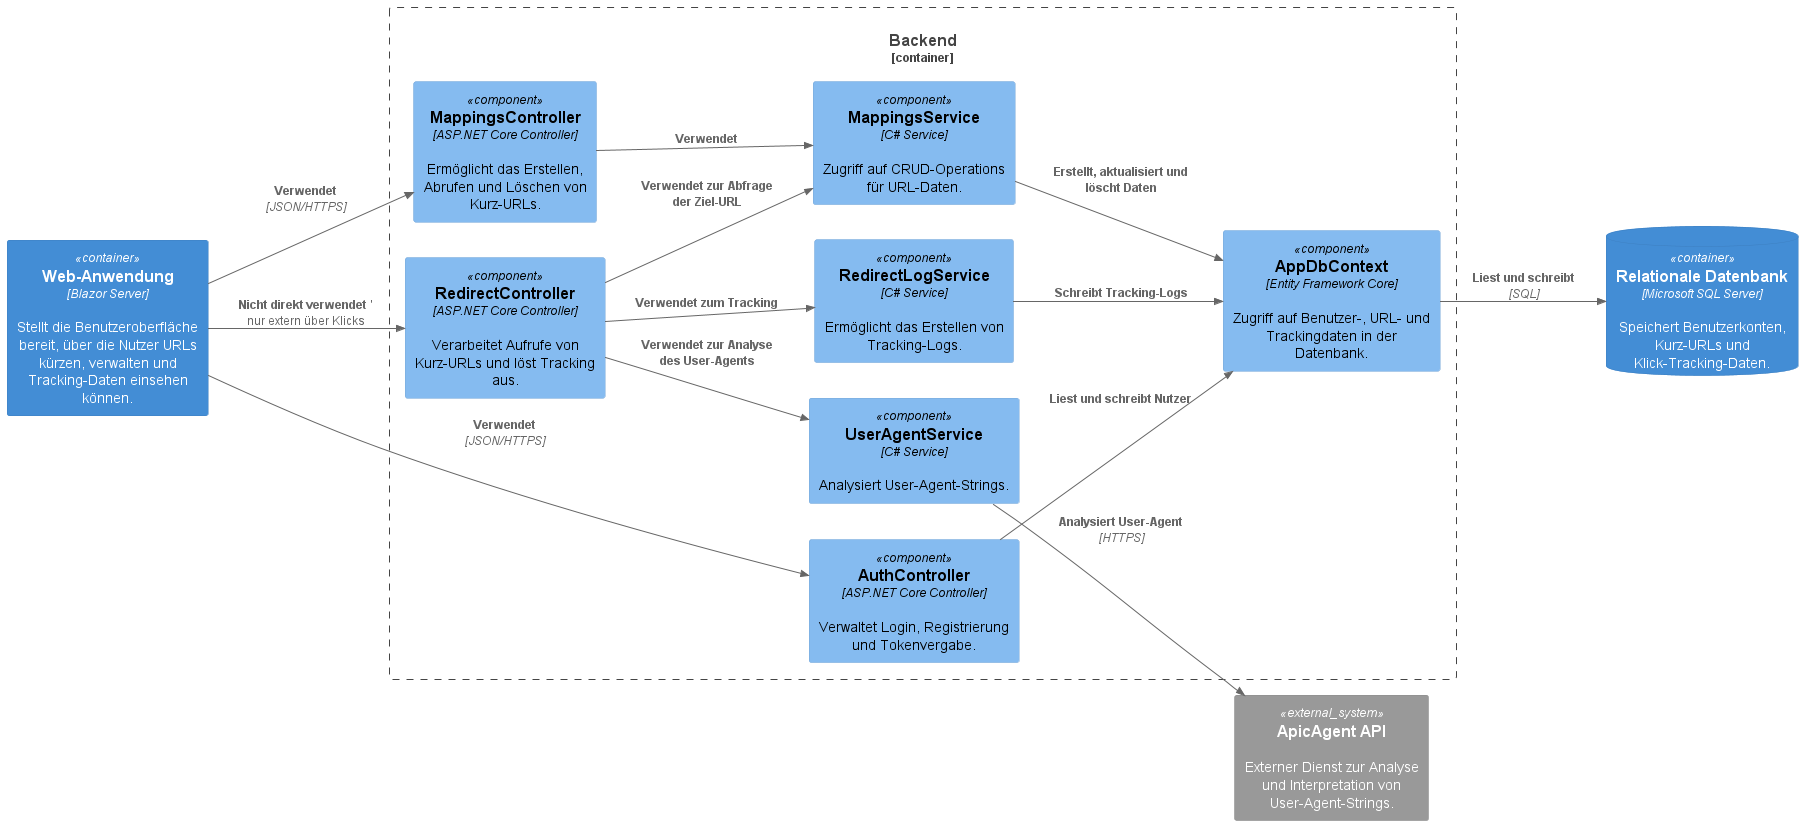
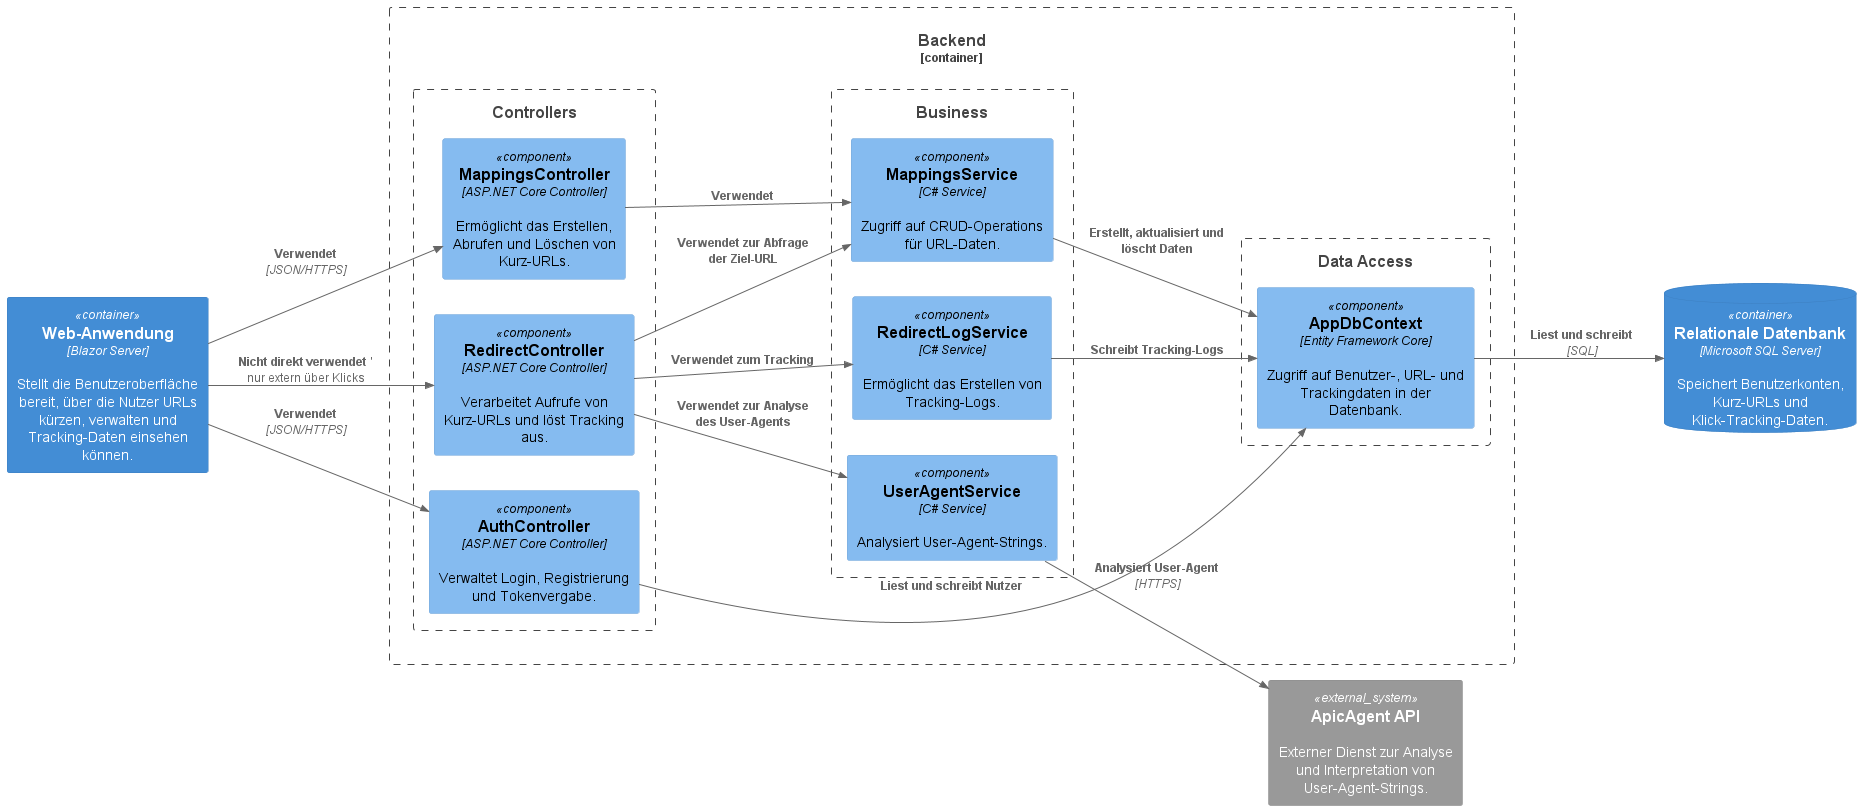
update arc42 doc, add sequence diagrams

Changed region(s): [[0.0, 0.0309, 1.0, 0.8333], [0.6483, 0.8025, 0.8026, 1.0]]

diff --git a/docs/docs.md b/docs/docs.md
@@ -4,7 +4,7 @@ Dokumentation zur Projektarbeit im Fach "Software-Qualitätssicherung" an der TH
 
 Der Aufbau dieser Dokumentation orientiert sich am offiziellen [Arc42-Template](https://docs.arc42.org/home/)
 
-## 1. Einleitung
+## 1. Einführung und Ziele
 ### Fachliche Anforderungen
 
 Bei der Anwendung handelt es sich um einen URL-Shortener mit Benutzerkonten. Nutzer:innen können sich mit E-Mail-Adresse und Passwort registrieren und anschließend über ein persönliches Dashboard kurze URLs erstellen. Die erstellten Kurz-URLs werden dem jeweiligen Nutzerkonto zugeordnet und können jederzeit wieder gelöscht werden.
@@ -25,7 +25,7 @@ Die wesentlichen Stakeholder dieses Projekts sind:
 - Studierende des Moduls Software-Qualitätssicherung an der TH Rosenheim.
 - Lehrende/Dozenten, die das Projekt im Kontext der Lehrveranstaltung begleiten und bewerten.
 
-## 2. Beschränkungen
+## 2. Randbedingungen
 Im Rahmen des Projekts galten folgende Einschränkungen und Rahmenbedingungen:
 
 - **Architekturvorgabe**: Die Anwendung musste als verteiltes System umgesetzt werden, bestehend aus einem Frontend, einem Backend sowie einer persistenten Datenhaltung (Datenbank).
@@ -42,49 +42,16 @@ Im Rahmen des Projekts galten folgende Einschränkungen und Rahmenbedingungen:
 
 - **Quellcodeverwaltung**: Als zentrales Repository für die Versionsverwaltung muss GitHub verwendet werden.
 
-## 3. Kontext und Umfang
+## 3. Kontextabgrenzung
 
-### Kontextdiagramm (Level 1)
 Das System ist ein Webservice mit direkter Interaktion durch Benutzer über den Browser. Die einzige externe Schnittstelle ist eine Third-Party-API zur Analyse von User-Agent-Strings.
 
 **Externe Beteiligte**:         
 
-- **Endnutzer:innen**: Interagieren über das Web-Frontend mit der Anwendung, z. B. zum Erstellen und Verwalten von Kurz-URLs.
+- **Endnutzer:innen**: Interagieren über das Web-Frontend mit der Anwendung, z. B. zum Erstellen und Verwalten von Kurz-URLs. Oder klicken auf eine generierte URL, um weitergeleitet zu werden.
 - **Externer Dienst – ApicAgent**: Wird vom Backend genutzt, um die im User-Agent enthaltenen Informationen (z. B. Betriebssystem, Gerät, Browser) strukturiert zu analysieren und zu speichern.
 
 ![Kontextdiagramm](images/Kontextdiagramm.png)
-
-### Containerdiagramm (Level 2)
-Das System besteht aus drei Haupt-Containern:
-
-**1. Web-Frontend (Blazor Server)**       
-
-- Stellt die Benutzeroberfläche bereit.
-- Verantwortlich für Benutzerinteraktion, URL-Verwaltung und Anzeige der Tracking-Daten.
-- Kommuniziert per HTTP-REST mit dem Backend.
-
-**2. Backend (ASP.NET Core Web API)**           
-
-- Beinhaltet die gesamte Geschäftslogik und Datenverarbeitung.
-- Bietet REST-Endpunkte zur Nutzerregistrierung, URL-Verwaltung, Weiterleitung und Tracking.
-- Ruft REST-API von [ApicAgent](https://www.apicagent.com/) auf zur Analyse des UserAgents des Nutzers.
-
-**Datenbank (MS SQL Server)**      
-
-- Persistiert Benutzerkonten, Kurz-URLs und Tracking-Informationen.
-- Wird ausschließlich vom Backend angesprochen.
-
-![Containerdiagramm](images/Containerdiagramm.png)
-
-### Komponentendiagramm (Level 3)
-
-**Backend-Komponenten:**
-
-![Komponentendiagramm Backend](images/Komponentendiagramm_Backend.png)
-
-**Frontend-Komponenten (Blazor Pages):**
-
-![Komponentendiagramm Frontend](images/Komponentendiagramm_Frontend.png)
 
 ## 4. Lösungsstrategie
 
@@ -110,9 +77,13 @@ Das Backend besteht aus dem Projekt ``UrlShortener.App.Backend`` und ist in mehr
 
 - **Controllers:** Enthält die REST-Endpunkte für Authentifizierung (AuthController), Systemstatus (HealthCheckController), URL-Verwaltung (MappingsController) und Weiterleitung (RedirectController).
 - **Business**: Implementiert die Geschäftslogik für Authentifizierung, Erstellung und Löschung von URLs, sowie das Tracking von Klicks inkl. API-Kommunikation mit ApicAgent.
+- **Data Access**: Implementiert den Zugriff auf die Datenbank
 - **Models**: Enthält die Models, die von der ApicAgent REST-API per HTTP-Request zur Verfügung gestellt werden.
 - **Extensions**: Sammlung von statischen Hilfsklassen.
 - **Middleware**: Implementierung eigener Middleware, um das Verhalten der Anwendung zentral zu steuern (Zum Beispiel, um ein Delay auf eingehende Requests anzuwenden, um Brute-Force Angriffe auf den Login ineffizient zu machen).
+
+Zentrale Komponenten (Controller, Business Logic, Data Access) werden hier genauer erklärt:
+![Komponentendiagramm Backend](images/Komponentendiagramm_Backend.png)
 
 ### Frontend-Bausteine
 
@@ -124,8 +95,11 @@ Das Frontend besteht aus zwei Projekten:
 
     - **API**: Wrapper für die Kommunikation mit dem Backend via HTTP.
     - **Business**: Client-seitige Geschäftslogik zur Verwaltung von URLs und Anzeige der Tracking-Daten.
-    - **Components**: Wiederverwendbare UI-Komponenten wie Formulare, Tabellen oder Dialoge.
+    - **Components**: UI-Komponenten wie Formulare, Tabellen oder Dialoge.
     - **Extensions**: Erweiterungsmethoden und Hilfsfunktionen für die UI oder Datenverarbeitung.
+
+Zentrale Komponenten (Components/UI, Business Logic, Data Access) werden hier genauer erklärt:
+![Komponentendiagramm Frontend](images/Komponentendiagramm_Frontend.png)
 
 ## 6. Runtime-Sicht
 Die Runtime-Sicht beschreibt typische Abläufe innerhalb des Systems zur Laufzeit. Dabei werden die Interaktionen zwischen Nutzer, Frontend, Backend, Datenbank und externen APIs dargestellt. Im Folgenden werden zwei zentrale Szenarien der Anwendung beispielhaft beschrieben.
@@ -136,7 +110,9 @@ Die Runtime-Sicht beschreibt typische Abläufe innerhalb des Systems zur Laufzei
 3. Das Frontend ruft den REST-Endpunkt /api/mappings/create im MappingsController des Backends per POST-Request mit den eingegeben Daten auf.
 4. Das Backend validiert die Eingabe und generiert eine eindeutige Kurz-URL.
 4. Die Lange URL, die generierte Kurz-URL, der Timestamp, der Titel und die Benutzer-ID werden in der Datenbank gespeichert.
-5. Die neue URL wird dem Benutzer im Frontend angezeigt und zur Übersichtsliste hinzugefügt.
+5. Die neue URL wird dem Benutzer im Frontend angezeigt und zur Übersichtsliste hinzugefügt. Außerdem werden Statistiken angezeigt.
+
+![Sequenzdiagramm 1](images/sc1.png)
 
 ### Szenario 2: Ein Dritter klickt auf eine Kurz-URL
 1. Eine Person ruft eine zuvor generierte Kurz-URL im Browser auf.
@@ -148,23 +124,28 @@ Die Runtime-Sicht beschreibt typische Abläufe innerhalb des Systems zur Laufzei
     - Der Client wird mit einem HTTP-Redirect (Status 302) zur Lang-URL weitergeleitet.
 8. Falls kein Mapping existiert, wird eine 404-Fehlermeldung zurückgegeben.
 
-Beide Szenarien zeigen, wie die verschiedenen Systemkomponenten zusammenarbeiten, um Kernfunktionalitäten wie URL-Erstellung und Tracking performant und sicher umzusetzen.
+![Sequenzdiagramm 2](images/sc2.png)
 
-## 7. Deployment-Sicht
-Die Anwendung wird containerisiert ausgeliefert und über eine zentrale docker-compose-Konfiguration gestartet. Sie besteht aus zwei Hauptdiensten – Backend und Frontend – die jeweils in einem eigenen Docker-Container laufen. Beide Images werden automatisch via GitHub Actions gebaut und mit der jeweils aktuellen Version veröffentlicht.
+Beide Szenarien zeigen, wie die verschiedenen Systemkomponenten zusammenarbeiten, um Kernfunktionalitäten wie URL-Erstellung und umzusetzen.
 
-### Containerisierung
+## 7. Verteilungssicht
+Die Anwendung wird containerisiert ausgeliefert und über eine zentrale docker-compose-Konfiguration gestartet. Sie besteht aus drei Hauptdiensten – Backend, Frontend und Datenbank – die jeweils in einem eigenen Docker-Container laufen. Images von Frontend und Backend werden automatisch via GitHub Actions gebaut und mit der jeweils aktuellen Version veröffentlicht.
+
+![Containerdiagramm](images/Containerdiagramm.png)
 
 - **Backend-Container**:
-    - Basierend auf dem offiziellen .NET 9.0 ASP.NET-Image.
-    - Enthält die REST-API sowie die Geschäftslogik.
-    - Wird über Port 6060 bereitgestellt.
-    - Nutzt eine mehrstufige Build-Pipeline (Restore, Build, Publish), um ein Image zu erzeugen.
+    - Beinhaltet die gesamte Geschäftslogik und Datenverarbeitung.
+    - Bietet REST-Endpunkte zur Nutzerregistrierung, URL-Verwaltung, Weiterleitung und Tracking.
+    - Ruft REST-API von [ApicAgent](https://www.apicagent.com/) auf zur Analyse des UserAgents des Nutzers.
 
 - **Frontend-Container**:
-    - Ebenfalls basierend auf dem .NET 9.0 ASP.NET-Image.
-    - Hostet die Blazor-Komponenten.
-    - Stellt die Webanwendung über Ports 8080 und 8081 zur Verfügung.
+    - Stellt die Benutzeroberfläche bereit.
+    - Verantwortlich für Benutzerinteraktion, URL-Verwaltung und Anzeige der Tracking-Daten.
+    - Kommuniziert per HTTP-REST mit dem Backend.
+
+- **Datenbank (MS SQL Server)**      
+    - Persistiert Benutzerkonten, Kurz-URLs und Tracking-Informationen.
+    - Wird ausschließlich vom Backend angesprochen.
 
 ### Build & Deployment
 
@@ -180,8 +161,6 @@ Für die lokale Ausführung genügt:
 ```bash
 docker-compose up --build
 ```
-
-Die Anwendung ist anschließend unter den definierten Ports erreichbar. Backend und Frontend laufen unabhängig, aber koordiniert im selben Container-Netzwerk.
 
 ## 8. Querschnittskonzepte
 
@@ -215,8 +194,69 @@ Dank Tailwind CSS konnten UI-Elemente wie Formulareingaben, Fehlermeldungen oder
 
 Das gesamte UI/UX-Design zielt darauf ab, die Nutzung der Anwendung auch für technisch weniger erfahrene Anwender:innen so einfach und angenehm wie möglich zu machen.
 
+### Qualitätssichernde Maßnahmen und Tests
+
+Die Qualität der Anwendung wurde durch verschiedene Testarten, automatisierte Analysen und CI sichergestellt. Der Fokus lag dabei sowohl auf funktionaler Korrektheit als auch auf nicht-funktionalen Aspekten wie Performance und Sicherheit.
+
+#### Unittests (Backend)
+Im Projekt ``UrlShortener.Test.Backend`` wurden umfassende Unit-Tests für die Kernlogik des Backends erstellt. Dabei wurden u. a. folgende Bereiche abgedeckt:
+
+- Validierung von URL-Eingaben
+- Erzeugung und Speicherung von Kurz-URLs
+- Authentifizierungs-Logik (z. B. Token-Handling)
+- Trennung der Tests nach Modulen (Mapping, Auth, Tracking)
+
+#### Unittests (Frontend)
+Im Projekt ``UrlShortener.Test.Frontend`` wurden Unit-Tests für die Frontend-Komponenten durchgeführt. Dabei lag der Fokus auf:
+
+- Validierung von Eingaben in Formularen
+- UI-Komponentenverhalten
+- Funktionalität der Geschäftslogik
+
+#### Unittests (Shared)
+Im Projekt ``UrlShortener.Test.Shared`` wurden Unit-Tests für die geteilten DTO-Klassen und Extension-Methoden durchgeführt.
+
+#### Integrationstests
+Das Projekt ``UrlShortener.Test.Backend`` enthält auch Integrationstests, die die REST-API testen. Es wurden u. a. getestet:
+
+- Registrierung und Login
+- Erstellen und Löschen von Kurz-URLs
+- Zugriffsschutz über JWT
+- Rückgabeverhalten bei fehlerhaften Requests
+
+#### Penetration-Tests
+Im Projekt ``UrlShortener.Test.End2End`` wurden gezielt Sicherheitstests (PenTests) implementiert, u. a. um zu prüfen:
+
+- Unberechtigter Zugriff auf geschützte Ressourcen
+- Manipulation von JWTs
+- Eingabe von potenziell schädlichem Code (Injection-Angriffe)
+- Verhalten bei abgelaufenen oder ungültigen Tokens
+
+#### End2End-Tests
+Ebenfalls in ``UrlShortener.Test.End2End`` befinden sich die End2End-Tests, mit denen komplette Nutzungsflüsse simuliert und geprüft werden. Dazu werden sowohl Backend, Frontend und eine In-Memory-Datenbank gestartet und mittels PlayWright durch das UI navigiert. Diese Tests laufen automatisiert in der CI-Pipeline (Headless) und prüfen:
+
+- Funktionale Korrektheit des Zusammenspiels zwischen Frontend und Backend
+- Darstellung und Zustand der UI nach typischen Aktionen
+- Rückmeldungen bei Erfolgen und Fehlern
+
+#### Last-Tests
+Die Anwendung wurde zudem mit Lasttests auf ihre Stabilität unter erhöhter Benutzeraktivität geprüft. Dabei wurde unter anderem simuliert:
+
+- Massenerstellung von URLs
+- Verhalten von Login/Registrierung unter Last
+- Rate-Limiting
+
+#### Statische Codeanalyse
+Die Anwendung wird mithilfe von SonarQube regelmäßig auf Code Smells, Security Vulnerabilities, Duplikate und Testabdeckung überprüft. Die SonarQube-Auswertungen sind in den CI-Workflow integriert und liefern konkrete Hinweise zur Codequalität.
+
+#### Analyse von Abhängigkeiten
+
+Zusätzlich zu den Penetration-Tests und der statischen Codeanalyse wurde ein automatisierter **OWASP Dependency Check** durchgeführt. Dabei wurden sämtliche verwendeten Bibliotheken auf bekannte Schwachstellen geprüft (CVE-Datenbank).
+
+Der Dependency Check wurde in den CI-Prozess integriert, sodass Sicherheitsrisiken in Drittanbieterpaketen frühzeitig erkannt und adressiert werden können. Ziel ist es, die Angriffsfläche durch unsichere Abhängigkeiten zu minimieren und aktuelle Sicherheitsstandards einzuhalten.
+
 ## 9. Architekturentscheidungen
-Die wichtigsten Entscheidungen mit Auswirkungen auf die Architektur wurden als architecture decision records (ADR) dokumentiert.
+Die wichtigsten Entscheidungen mit Auswirkungen auf die Architektur wurden als Architecture Decision Records (ADR) dokumentiert.
 
 ### ADR 1: Entscheidung für eigenen URL-Shortener
 
@@ -320,8 +360,9 @@ Ich habe mich für **Blazor Server** als Hosting-Modell entschieden. Die Logik w
     - **Vorteile**: Vollständig clientseitig, offlinefähig.
     - **Nachteile**: Logik im Browser einsehbar, längere Ladezeit.
 
-## 10. Qualität
-### Nicht-funktionale Qualitätsanforderungen nach ISO 25010
+## 10. Qualitätsanforderungen
+
+### Nicht-funktionale Qualitätsanforderungen
 
 #### Sicherheit
 
@@ -356,58 +397,68 @@ Die Anwendung läuft containerisiert über Docker und ist damit unabhängig vom 
 
 - **Zuverlässigkeit**: Das System erkennt fehlerhafte Eingaben und bietet dem Benutzer entsprechendes Feedback.
 
-## 11. Qualitätssichernde Maßnahmen und Tests
-Die Qualität der Anwendung wurde durch verschiedene Testarten, automatisierte Analysen und CI sichergestellt. Der Fokus lag dabei sowohl auf funktionaler Korrektheit als auch auf nicht-funktionalen Aspekten wie Performance und Sicherheit.
+## 11. Risiken und Technische Schulden
 
-### Unittests (Backend)
-Im Projekt ``UrlShortener.Test.Backend`` wurden umfassende Unit-Tests für die Kernlogik des Backends erstellt. Dabei wurden u. a. folgende Bereiche abgedeckt:
+### Risiken
 
-- Validierung von URL-Eingaben
-- Erzeugung und Speicherung von Kurz-URLs
-- Authentifizierungs-Logik (z. B. Token-Handling)
-- Trennung der Tests nach Modulen (Mapping, Auth, Tracking)
+#### 1. Abhängigkeit von ApicAgent als Drittanbieter
 
-### Unittests (Frontend)
-Im Projekt ``UrlShortener.Test.Frontend`` wurden Unit-Tests für die Frontend-Komponenten durchgeführt. Dabei lag der Fokus auf:
+Die Analyse der User-Agent-Daten erfolgt über die kostenlose API von ApicAgent. Diese unterliegt Nutzungseinschränkungen und ist bei intensiver oder kommerzieller Nutzung kostenpflichtig.
 
-- Validierung von Eingaben in Formularen
-- UI-Komponentenverhalten
-- Funktionalität der Geschäftslogik
+- Auswirkungen: Potenzielle Kosten bei Skalierung; Risiko der Dienstabschaltung oder API-Änderungen.
+- Empfohlene Maßnahme: Alternative Lösungen, Vertrag mit SLA im echten Betrieb
 
-### Integrationstests
-Das Projekt ``UrlShortener.Test.Backend`` enthält auch Integrationstests, die die REST-API testen. Es wurden u. a. getestet:
+#### 2. Kein Caching bei häufig verwendeten Kurz-URLs
 
-- Registrierung und Login
-- Erstellen und Löschen von Kurz-URLs
-- Zugriffsschutz über JWT
-- Rückgabeverhalten bei fehlerhaften Requests
+Jede Weiterleitung einer Kurz-URL löst eine Datenbankabfrage aus, selbst bei sehr häufig genutzten URLs.
 
-### Penetration-Tests
-Im Projekt ``UrlShortener.Test.End2End`` wurden gezielt Sicherheitstests (PenTests) implementiert, u. a. um zu prüfen:
+- Auswirkungen: Mögliche Performance-Probleme bei hoher Last (Hotspot-Links).
+- Empfohlene Maßnahme: Einführung eines In-Memory-Cachings (z. B. Redis) für Kurz-URLs.
 
-- Unberechtigter Zugriff auf geschützte Ressourcen
-- Manipulation von JWTs
-- Eingabe von potenziell schädlichem Code (Injection-Angriffe)
-- Verhalten bei abgelaufenen oder ungültigen Tokens
+#### 3. Fehlendes Rate-Limiting für ApicAgent-Requests
 
-### End2End-Tests
-Ebenfalls in ``UrlShortener.Test.End2End`` befinden sich die End2End-Tests, mit denen komplette Nutzungsflüsse simuliert und geprüft werden. Dazu werden sowohl Backend, Frontend und eine In-Memory-Datenbank gestartet und mittels PlayWright durch das UI navigiert. Diese Tests laufen automatisiert in der CI-Pipeline (Headless) und prüfen:
+Jeder Klick auf eine Kurz-URL löst direkt einen API-Call aus. Bei hoher Zugriffszahl kann dies zu Blockierungen oder Rate-Limits führen.
 
-- Funktionale Korrektheit des Zusammenspiels zwischen Frontend und Backend
-- Darstellung und Zustand der UI nach typischen Aktionen
-- Rückmeldungen bei Erfolgen und Fehlern
+- Auswirkungen: Tracking-Funktion kann zeitweise ausfallen.
+- Empfohlene Maßnahme: Asynchrone Verarbeitung mit Warteschlange.
 
-### Last-Tests
-Die Anwendung wurde zudem mit Lasttests auf ihre Stabilität unter erhöhter Benutzeraktivität geprüft. Dabei wurde unter anderem simuliert:
+### Technische Schulden
 
-- Massenerstellung von URLs
-- Verhalten von Login/Registrierung unter Last
+#### 1. Fehlender Refresh-Token-Mechanismus bei JWT-Authentifizierung
 
-### Statische Codeanalyse
-Die Anwendung wird mithilfe von SonarQube regelmäßig auf Code Smells, Security Vulnerabilities, Duplikate und Testabdeckung überprüft. Die SonarQube-Auswertungen sind in den CI-Workflow integriert und liefern konkrete Hinweise zur Codequalität.
+Aktuell verfällt das JWT nach Ablauf (60 Minuten) ohne Möglichkeit zur Erneuerung. Benutzer:innen müssen sich neu einloggen, was die Usability verschlechtert.
 
-### Analyse von Abhängigkeiten
+- Auswirkungen: Schlechte Nutzererfahrung, insbesondere bei längerem Arbeiten im Dashboard.
+- Empfohlene Maßnahme: Einführung eines Refresh-Token-Workflows, um Tokens serverseitig erneuern zu können.
 
-Zusätzlich zu den Penetration-Tests und der statischen Codeanalyse wurde ein automatisierter **OWASP Dependency Check** durchgeführt. Dabei wurden sämtliche verwendeten Bibliotheken auf bekannte Schwachstellen geprüft (CVE-Datenbank).
+#### 2. Fehlende Invalidierung des JWT-Tokens nach dem Logout
 
-Der Dependency Check wurde in den CI-Prozess integriert, sodass Sicherheitsrisiken in Drittanbieterpaketen frühzeitig erkannt und adressiert werden können. Ziel ist es, die Angriffsfläche durch unsichere Abhängigkeiten zu minimieren und aktuelle Sicherheitsstandards einzuhalten.
+Aktuell wird die Logout-Funktionalität nur auf der Frontend-Seite behandelt. Der Token wird hier einfach aus dem Browser-Storage gelöscht und die Anwendung refresht. Dadurch wird der Nutzer ausgeloggt. Der Token bleibt jedoch weiterhin valide.
+
+- Auswirkungen: Bad Practice. Nicht mehr verwendete Token, sollten aus Sicherheitsgründen invalidiert werden.
+- Empfohlene Maßnahme: Einführung eines Logout-Endpunkts im Auth-Controller, der einen Token invalidiert.
+
+## 12. Glossar
+
+| Begriff     | Erklärung                                                                 |
+|-------------------------|----------------------------------------------------------------------------------------|
+| **ADR**                 | *Architecture Decision Record* – Dokumentation einer wichtigen Architekturentscheidung |
+| **API**                 | *Application Programming Interface* – Schnittstelle zur Kommunikation zwischen Systemen |
+| **CI/CD**               | *Continuous Integration / Continuous Deployment* – Automatisierter Build- und Deployment-Prozess |
+| **CORS**                | *Cross-Origin Resource Sharing* – Sicherheitsmechanismus im Browser für Webanfragen über Domain-Grenzen hinweg |
+| **DTO**                 | *Data Transfer Object* – Objekt zur Übertragung von Daten zwischen Systemkomponenten oder -schichten |
+| **EF Core**             | *Entity Framework Core* – Objekt-Relationaler Mapper für .NET zur Datenbankkommunikation |
+| **HTTP**                | *Hypertext Transfer Protocol* – Protokoll für die Kommunikation im Web |
+| **JWT**                 | *JSON Web Token* – Token zur Authentifizierung und Autorisierung |
+| **MS SQL Server**       | Microsofts relationales Datenbankmanagementsystem – verwendet zur persistenten Speicherung |
+| **REST**                | *Representational State Transfer* – Architekturstil für webbasierte APIs |
+| **UI**                  | *User Interface* – Benutzerschnittstelle / Benutzeroberfläche |
+| **UX**                  | *User Experience* – Nutzererlebnis im Umgang mit einer Anwendung |
+| **URL**                 | *Uniform Resource Locator* – Eindeutige Adresse zur Identifikation einer Ressource im Web |
+| **Blazor**              | Web-Framework von Microsoft zur Entwicklung interaktiver Benutzeroberflächen mit C# |
+| **ApicAgent**           | Externer Dienst zur Analyse von User-Agent-Strings zur Geräte-, OS- und Browser-Erkennung |
+| **Docker**              | Plattform zur Containerisierung von Anwendungen, um sie konsistent und portabel auszuführen |
+| **GitHub Actions**      | CI/CD-System von GitHub zur Automatisierung von Build- und Deploymentprozessen |
+| **Playwright**          | Automatisierungsframework zur Durchführung von End-to-End-Tests über UI-Interaktion |
+| **OWASP**               | *Open Worldwide Application Security Project* – Projekt zur Verbesserung der Softwaresicherheit |
+| **Rate-Limiting**       | Technik zur Begrenzung von Anfragen an eine Schnittstelle, um Missbrauch oder Überlastung zu verhindern |
